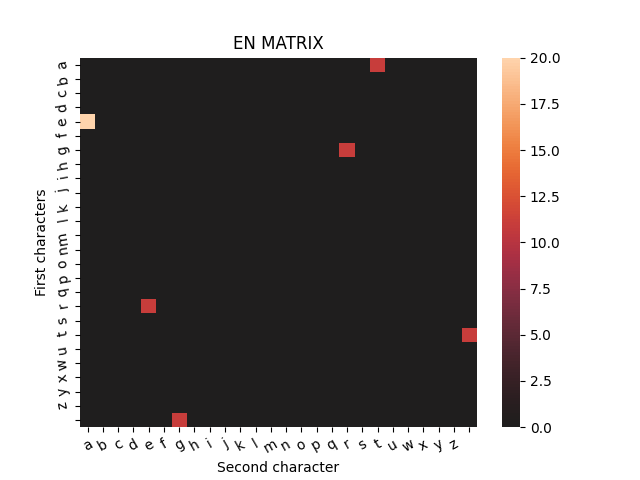
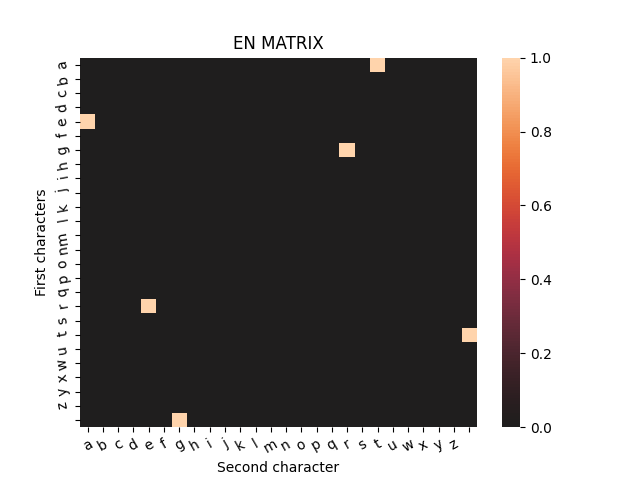
new matrices

diff --git a/paxos_implementatie/paxos/simulation.py b/paxos_implementatie/paxos/simulation.py
@@ -157,10 +157,10 @@ def plot_matrix():
 
 if __name__ == "__main__":
     # run_simulation("1 3 0 15\n0 PROPOSE 1 42\n0 END")
-    run_simulation("2 3 0 50\n0 PROPOSE 1 42\n8 FAIL PROPOSER 1\n11 PROPOSE 2 37\n26 RECOVER PROPOSER 1\n0 END")
-    # run_simulation("1 3 1 10000\n0 PROPOSE 1 nl: g\n100 PROPOSE 1 nl:ga\n200 PROPOSE 1 nl:af\n300 PROPOSE 1 nl:aa\n400 PROPOSE 1 nl:f "
-    #                "\n500 PROPOSE 1 en: g\n600 PROPOSE 1 en:gr\n700 PROPOSE 1 en:re\n800 PROPOSE 1 en:ea"
-    # #                "\n900 PROPOSE 1 en:at\n1000 PROPOSE 1 en:t \n0 END")
+    # run_simulation("2 3 0 50\n0 PROPOSE 1 42\n8 FAIL PROPOSER 1\n11 PROPOSE 2 37\n26 RECOVER PROPOSER 1\n0 END")
+    run_simulation("1 3 1 10000\n0 PROPOSE 1 nl: g\n100 PROPOSE 1 nl:ga\n200 PROPOSE 1 nl:af\n300 PROPOSE 1 nl:aa\n400 PROPOSE 1 nl:f "
+                   "\n500 PROPOSE 1 en: g\n600 PROPOSE 1 en:gr\n700 PROPOSE 1 en:re\n800 PROPOSE 1 en:ea"
+                   "\n900 PROPOSE 1 en:at\n1000 PROPOSE 1 en:t \n0 END")
 
-    # plot_matrix()
+    plot_matrix()
 
